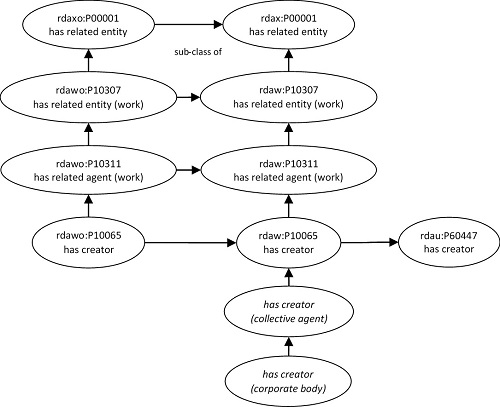
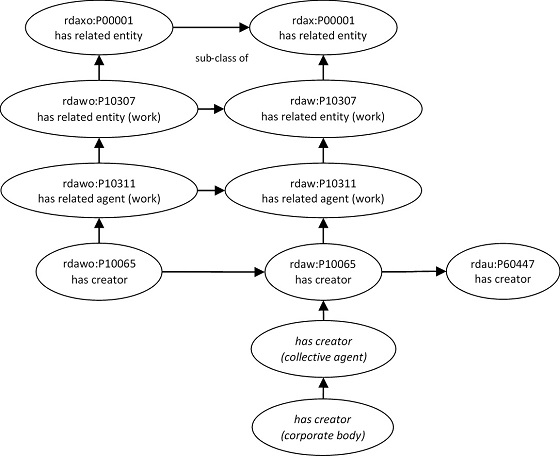
Tweaks

diff --git a/rgAbout/rdaont/represent.html b/rgAbout/rdaont/represent.html
@@ -252,7 +252,7 @@
 	 <p>A set of high-level, coarse granularity properties for relationships is distributed between the RDA element sets by domain.</p>
 	 <p>The set covers all pair-wise associative relationships between the RDA entities.</p>
 	 <p>Current and future RDA properties are treated as extensions of the matrix of relationships by using RDF sub-property relationships.</p>
-     <img src="creatorMatrix.jpg" width="500" height="407" alt="RDA creator relationship matrix">
+     <img src="creatorMatrix.jpg" width="600" height="498" alt="RDA creator relationship matrix">
 	 <p>This is an example of a relationship matrix for the &quot;has creator&quot; element.</p>
 	 <p>Properties labelled in italics are potential extensions to the element sets.</p>
 	 <p>A similar matrix is available for the element's datatype properties.</p>
